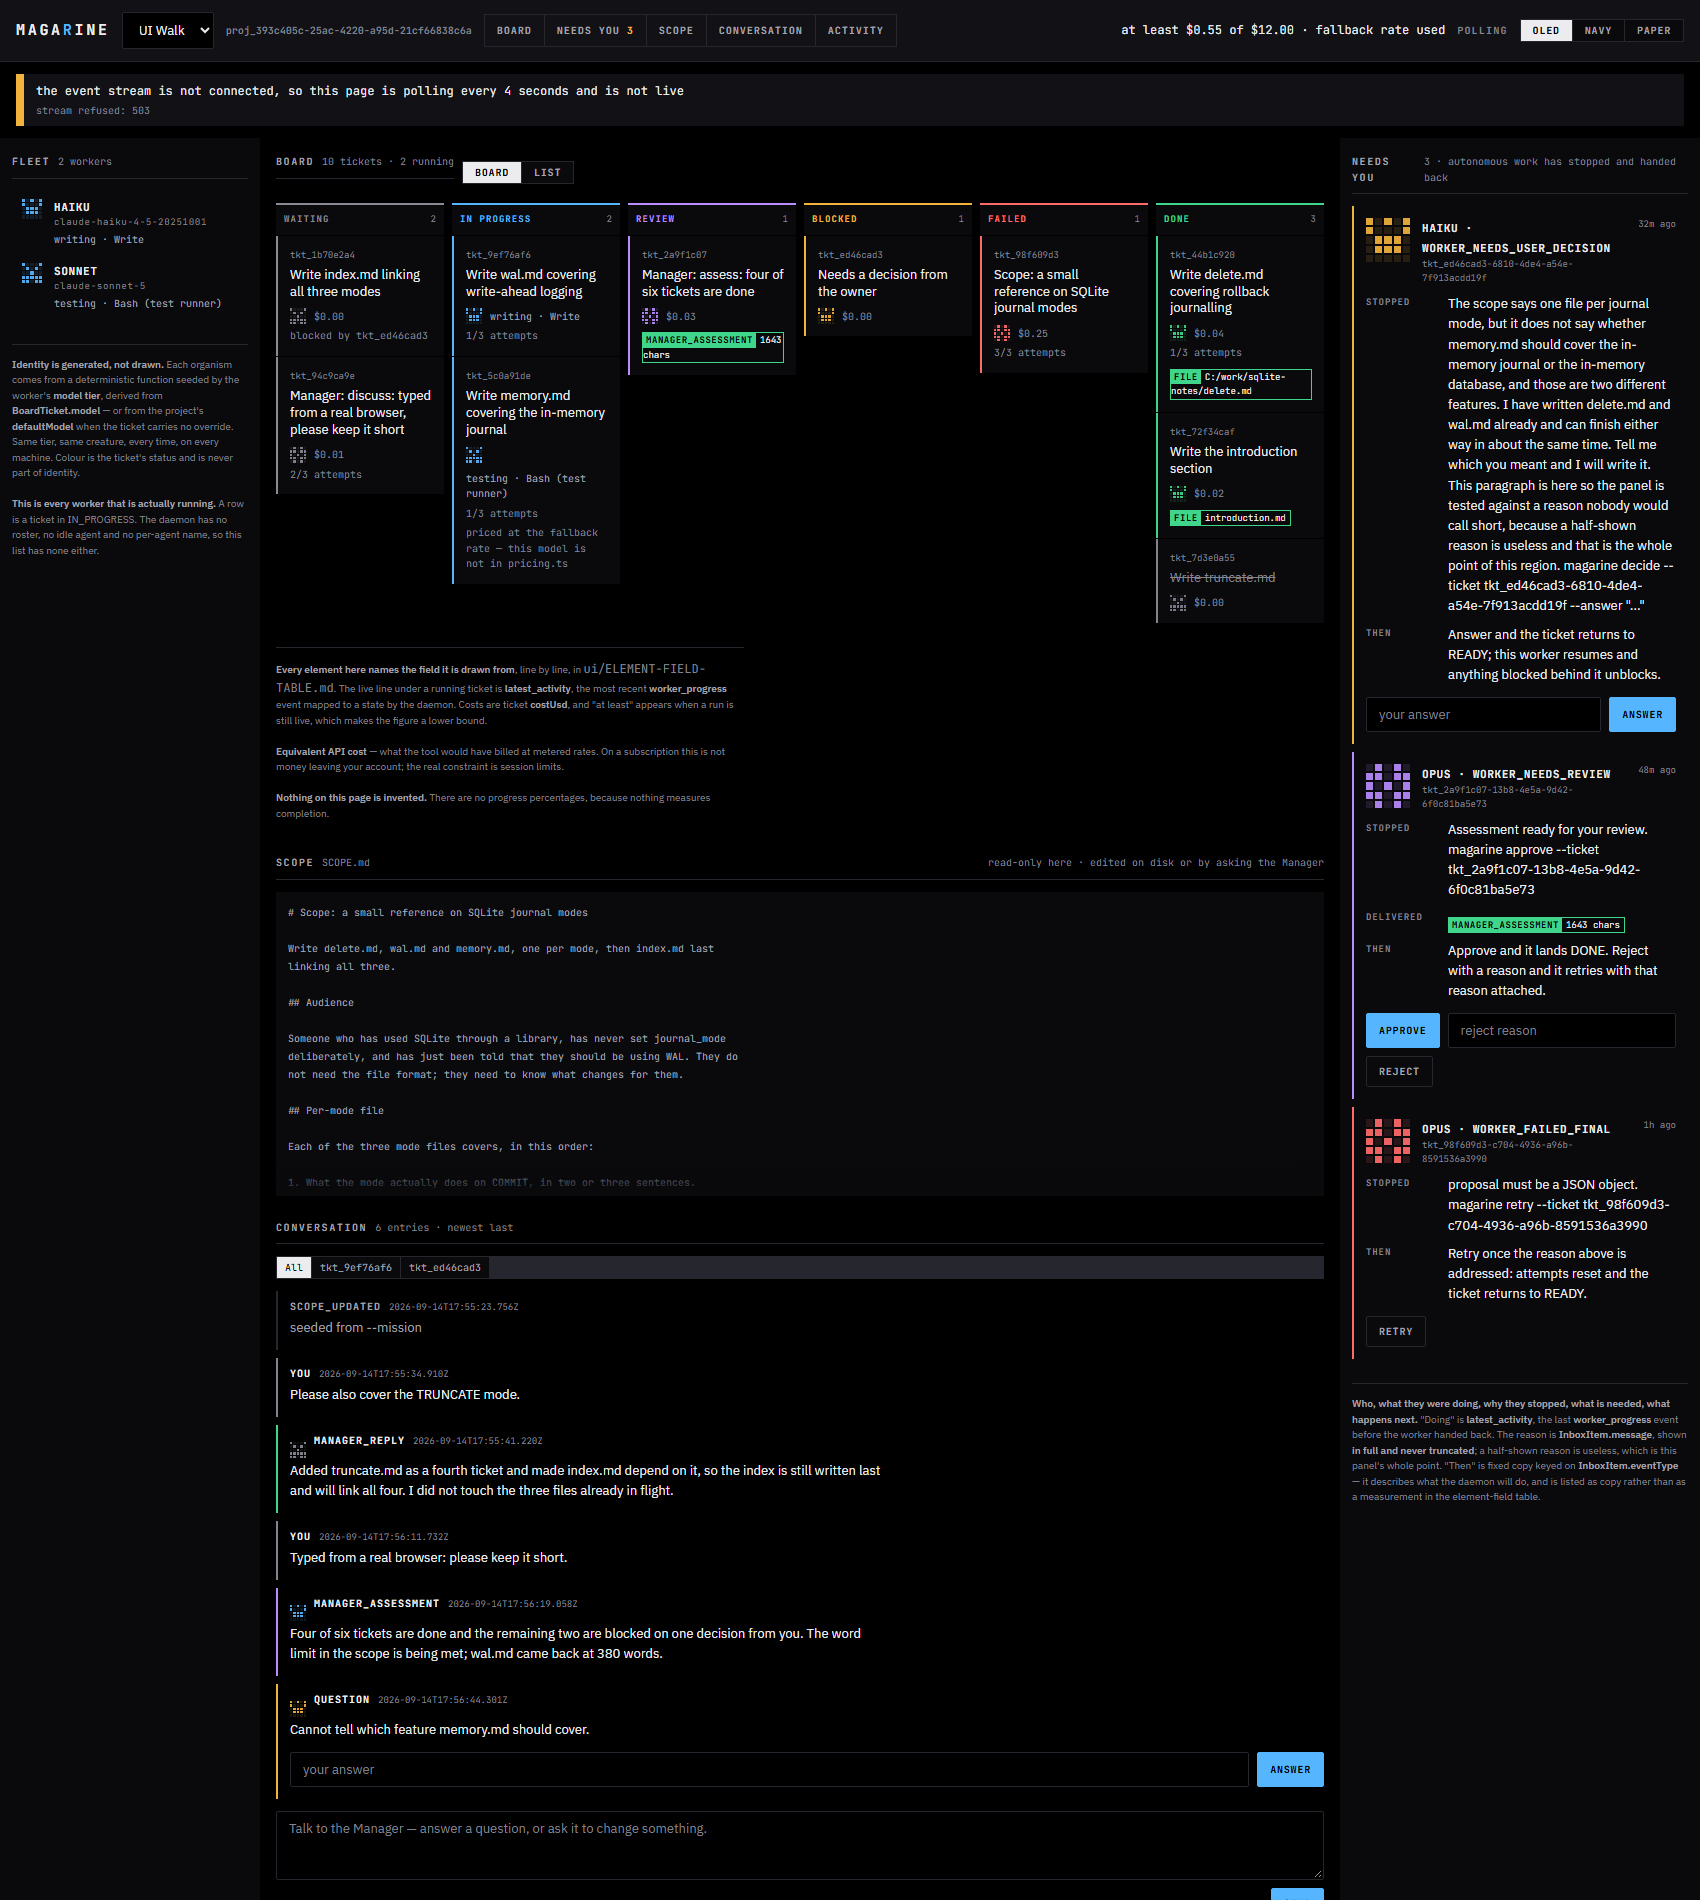
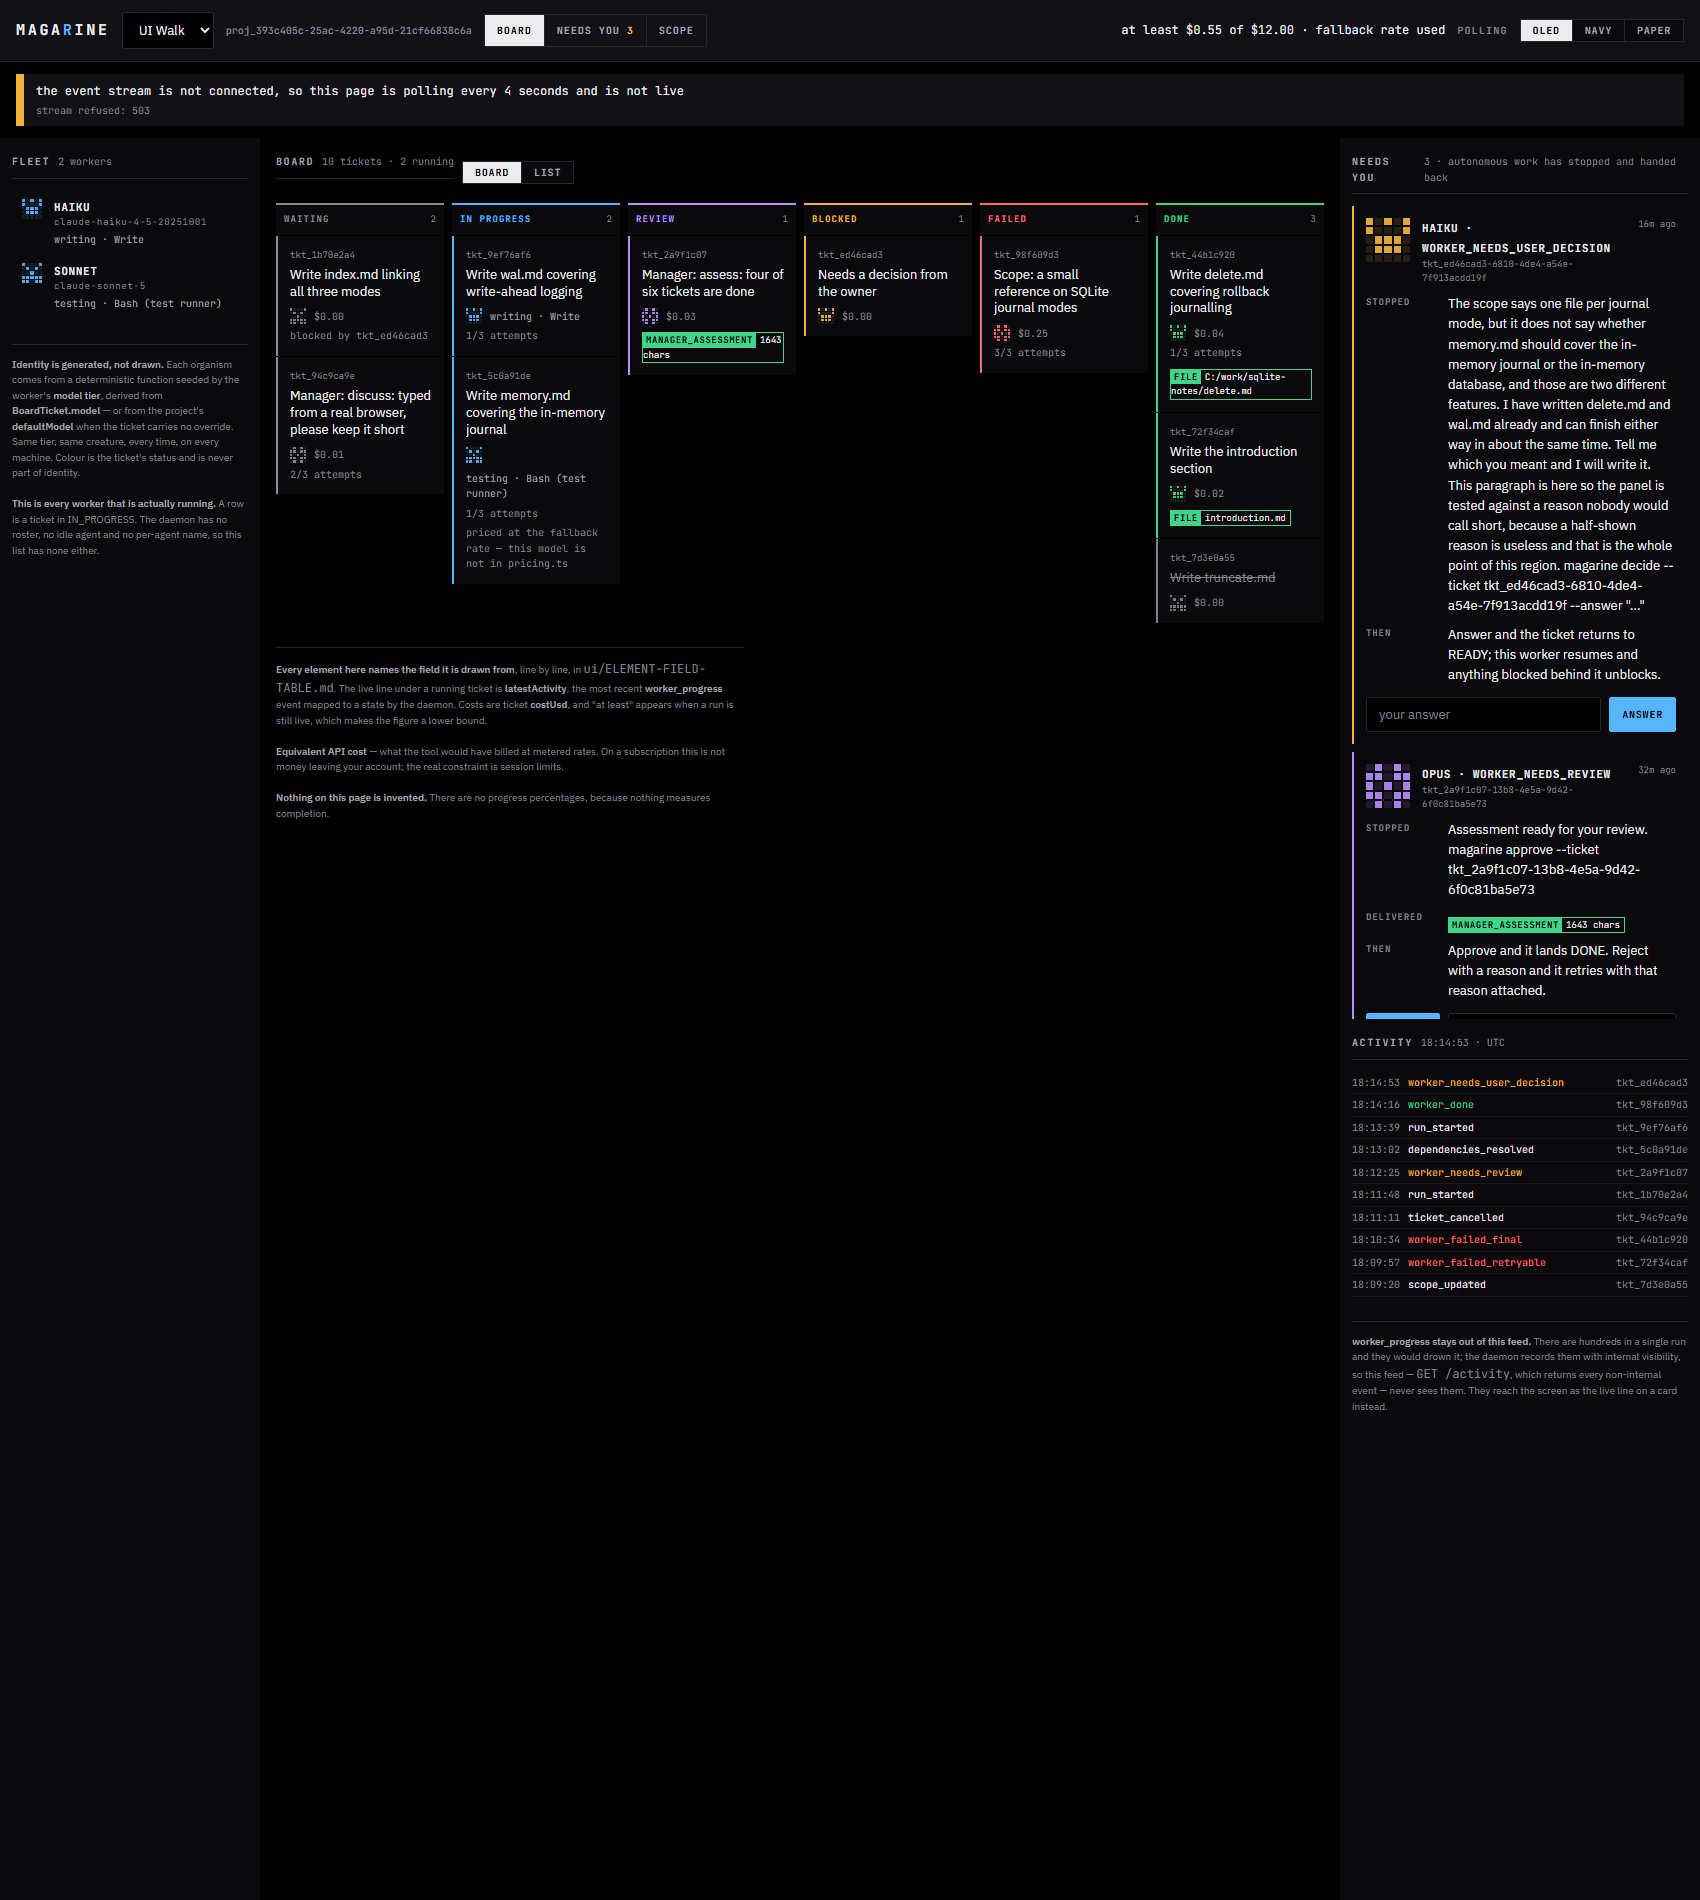
feat(ui): the current view is drawn, and every page capture is re-taken from an honest stub
Item 4, the screenshots, and the regression they found.

THE CURRENT VIEW WAS INVISIBLE. app.js sets aria-current on the nav entry
and no rule in the shipped skin drew it, so all three entries looked
identical in every view -- lost when the nav was restored under ruling 15.
The approved pass 3 design has the rule (docs/design/pass3/tokens.css
284); it is restored verbatim beside .nav a:hover, which already uses the
same colour pair, so contrast is unchanged. New test, written red first:
the current view is visible, not only announced. Verified by me: deleting
the rule fails exactly that test; file md5-identical after revert.

This is a defect only a picture could find. Every test passed while the
feature was invisible, because the tests check that the attribute is
written and that some rule consumes it -- not that a person can see which
view they are in.

EVIDENCE: 23 PNGs, all taken again. Twelve new view captures -- board,
needs-you and scope, dark and light, 100 and 125 percent -- and 01 to 07
re-shot under their original names, because every one showed a running
card and so carried the "doing" line no real daemon would render. The
README's caveat is now resolved rather than partly left standing, and it
says what screenshots are NOT evidence of: contrast, motion, keyboard.

Captured over DevTools, not `chrome --screenshot`. With every region now
focusable, loading /#board under --screenshot's virtual time matched
[…]

diff --git a/packages/core/src/ui/skin.test.ts b/packages/core/src/ui/skin.test.ts
@@ -447,3 +447,19 @@ test('every region the skin makes a scroll container can take keyboard focus', (
     'these regions scroll but cannot take focus, so a keyboard user cannot read past what fits: ' +
     unreachable.join(', '));
 });
+
+test('the current view is visible, not only announced: the skin styles aria-current on the nav', () => {
+  // RULING 15 requirement 1 has app.js set aria-current="page" on the matching
+  // nav entry. That serves a screen reader. A sighted user needs the same fact
+  // ON SCREEN, and the approved pass 3 design draws it
+  // (docs/design/pass3/tokens.css: `.nav a[aria-current="page"]`). The shipped
+  // skin lost that rule when the nav was removed and item 1 did not bring it
+  // back -- found in the item 4 screenshots, where all three entries looked the
+  // same in every view. Nothing else in this file could see it: the attribute
+  // was written, and consumed by nobody.
+  const styled = cssRules(SKIN).filter((r) =>
+    r.selector.split(',').some((s) => /\[aria-current="page"\]/.test(s) && /\ba\b/.test(s)));
+  assert.ok(styled.length > 0, 'no skin rule resolves the nav\'s aria-current="page", so the current view is invisible');
+  assert.ok(styled.some((r) => /background|color|border|outline|text-decoration/.test(r.body)),
+    'a rule selects aria-current="page" but changes nothing a sighted user can see');
+});

diff --git a/packages/core/ui/skin-brutalist.css b/packages/core/ui/skin-brutalist.css
@@ -366,6 +366,10 @@
     padding: var(--s2) var(--s3); background: var(--surface-2); color: var(--fg-2); text-decoration: none;
   }
   .nav a:hover { background: var(--fg); color: var(--bg); }
+  /* The view you are in, drawn — from the approved pass 3 design, verbatim.
+     app.js sets aria-current and nothing else; this is what makes it visible.
+     Restored after the item 4 screenshots showed all three entries identical. */
+  .nav a[aria-current="page"] { background: var(--fg); color: var(--bg); }
   .nav a .n { color: var(--st-blocked); }
 
   .btn {

diff --git a/docs/evidence/batch-15-page/README.md b/docs/evidence/batch-15-page/README.md
@@ -1,83 +1,110 @@
 # Batch 15: the page the daemon serves — screenshot evidence
 
-Interface Designer, Role B. Captured 2026-09-16 from `packages/core/ui/` as
-committed, rendered in headless Chrome 141.
+Interface Designer, Role B. **All 23 captures re-taken 2026-09-16 after ruling
+18**, from `packages/core/ui/` as it stands after rulings 15 and 18 and fixes
+3A and 3B, in Chrome 153.0.8010.48.
 
 **How to reproduce.** These are NOT hand-composed mockups. Each is the real
 `ui/index.html`, loading the real `ui/tokens.css`, `ui/skin-brutalist.css`,
 `ui/organism.js`, `ui/fontCoverage.js` and `ui/app.js` over HTTP, with the two
 shipped `.woff2` files. A throwaway stub in `.shots/` (gitignored) answers the
-daemon routes with responses shaped exactly like the real ones — `BoardResult`,
-`InboxItem[]`, `EventRow[]`, `ConversationEntry[]`.
+daemon routes. Captures are taken by `.shots/shoot-cdp.cjs` over the DevTools
+protocol (`Page.captureScreenshot`, with device-metrics emulation for 125%).
 
-> **CORRECTION, 2026-09-16, added by the lead after these were captured.**
-> The claim below that the stub answers "shaped exactly like the real ones" is
-> **not true of one field, and it invalidates part of what these pictures show.**
-> The stub's board rows carried `latest_activity`; the daemon sends
-> `latestActivity` (`commands/board.ts` 98 and 231). The page read the stub's
-> spelling, so **the "doing" line visible under running tickets in these
-> captures is a line no real daemon would ever have rendered** — against a real
-> daemon `activityOf()` returned null for every ticket, always.
+> **RESOLVED — the "doing" line.** An earlier set of these captures showed a
+> live line under running tickets that no real daemon would have rendered. The
+> stub sent `latest_activity`, the daemon sends `latestActivity`
+> (`commands/board.ts` 98 and 231), and the page read the stub's spelling — a
+> fixture written to match the page, agreeing with the page's mistake. The lead
+> recorded that caveat here; it is now resolved, not merely noted:
 >
-> The stub was written to match the page, so it agreed with the page's mistake:
-> a fixture validating the page against itself, which is the same failure shape
-> as a checker that cannot fail. Found by the Interface Designer against a real
-> spawned daemon, not by this suite and not by these screenshots.
->
-> Everything else here — layout, palette, contrast, organisms, the polling
-> notice, the responsive states — is unaffected and stands. These captures are
-> being re-shot against a corrected stub; until they are, read the activity
-> line and nothing else as unreliable.
+> - the page reads `latestActivity` (`ui/app.js`), and the stub sends it;
+> - **every capture in this directory was re-taken after the fix**, so no file
+>   here still carries the old line; `writing · Write` and
+>   `testing · Bash (test runner)` are now what a real daemon's field produces;
+> - the stub can no longer drift from the daemon unnoticed: the wire shapes the
+>   page depends on are asserted against a **real spawned daemon** in
+>   `src/ui/stream.test.ts` — the board field's name, the stream framing, and
+>   that `latestActivity.sequence` is the stream frame's own `id`. The lead
+>   mutation-checked that last test against `board.ts`.
+
+**Why `--screenshot` was not used this time.** Fix 3A makes every region
+focusable, so landing on `/#board` moves focus into `#board`. Under
+`chrome --screenshot`'s virtual-time mode that focus matched `:focus-visible` and
+drew a 2px ring round the whole centre column. In a real interactive session
+(`.shots/ringprobe.cjs`) the same load focuses `#board` with `:focus-visible`
+false and no outline, and so does a real mouse click on the nav. A picture of a
+ring nobody sees on arrival would have been honest-looking and wrong, so these
+are taken the way the page is actually used. `shoot-cdp.cjs` reports any
+element that *does* have a visible focus ring at capture time; none did.
 
 **The fixture is in the harness, never in the product.** `src/ui/page.test.ts`
 asserts that no ticket id, project id or money figure appears anywhere under
-`packages/core/ui/`. Every organism, colour and layout below is what the real
-code produced from daemon-shaped input.
+`packages/core/ui/`.
 
-**What the stub deliberately refuses:** `GET /events` answers 503. That is why
-every capture shows the page saying it is *polling* and not live — which is the
-behaviour rule 9 requires, photographed rather than asserted. The live path is
-verified separately against Role A's real route.
+**What the stub deliberately refuses:** `GET /events` answers 503, so every
+capture shows the page saying it is *polling* and not live — rule 9,
+photographed rather than asserted. The live path is not evidenced by a picture
+at all, because a picture cannot show motion: see "The live path" below.
 
 | file | what it shows |
 |---|---|
-| `01-board-oled-100.png` | the default environment, 1700px, 100% |
-| `01-board-dark-100.png` | navy, 100% |
-| `01-board-light-100.png` | warm paper, 100% |
-| `02-board-oled-125.png` | the same, at 125% device scale |
-| `02-board-dark-125.png` | " |
-| `02-board-light-125.png` | " |
-| `03-lanes-wrap-1500-oled.png` | at 1500px the six lanes wrap to two rows of three. **All six are still visible** — no status is ever hidden. |
-| `04-rail-below-1100-light.png` | at 1100px the rail drops below the centre |
+| `08-view-board-{dark,light}-{100,125}.png` | **Board view** (ruling 15): the six lanes in the centre; Needs you above Activity in the rail |
+| `09-view-needs-you-{dark,light}-{100,125}.png` | **Needs you view**: the panel promoted to the centre, where a reason shown in full has the width it needs; the rail is Activity alone |
+| `10-view-scope-{dark,light}-{100,125}.png` | **Scope view**: Scope and Conversation share the centre; the rail is the board view's, because Needs you is never hidden |
+| `01-board-{oled,dark,light}-100.png` | the default page (no hash, so the board view), 1700×1900 |
+| `02-board-{oled,dark,light}-125.png` | the same at 125% device scale |
+| `03-lanes-wrap-1500-oled.png` | at 1500px the six lanes wrap to two rows of three. **All six are still visible** — no status is ever hidden |
+| `04-rail-below-1100-light.png` | at 1100px the rail drops below the centre and the page scrolls as a page again |
 | `05-stacked-800-oled.png` | at 800px everything stacks in one column |
-| `06-gate-oled.png` | what the page shows before a token is accepted: the two notices and the gate, and **no invented data** |
-| `07-notices-coverage-and-pause-oled.png` | the font-coverage notice firing on non-Latin text from the daemon, and the spend-cap pause banner with the fix that matches its `pauseReason` |
+| `06-gate-oled.png` | before a token is accepted: the two notices and the gate, and **no invented data** |
+| `07-notices-coverage-and-pause-oled.png` | the font-coverage notice firing on non-Latin text, and the spend-cap pause banner with the fix that matches its `pauseReason` |
 
-## What each capture is evidence of
+The view captures are the window, 1700×1000 (2125×1250 at 125%). Under a view the
+page does not scroll — each column does — so the viewport *is* the screen.
 
-**Contrast is not evidenced here, deliberately.** A screenshot cannot
-discriminate 4.23:1 from 4.51:1 — which is exactly how a 10px element shipped
-at 4.23:1 in batch 14. Contrast is *computed* in `src/ui/contrast.test.ts` over
-every foreground token against every surface token in all three themes, plus
-every fill-on-text pair. No reachability judgement, no exemptions.
+## Found by taking these
 
-What the screenshots are good for is the class of defect no test I had planned
-would have caught, and two real ones were found this way:
+- **The current view was invisible.** In the first view captures all three nav
+  entries looked identical in every view: `app.js` set `aria-current="page"`, and
+  no rule in the shipped skin drew it. The approved pass 3 design does
+  (`.nav a[aria-current="page"]`); the rule was lost when the nav was removed and
+  not restored with it. Restored verbatim, with a test in `src/ui/skin.test.ts`
+  that fails if the attribute is styled by nothing — or styled invisibly.
+- **Carried from the first set:** an artefact's path written into the `class`
+  attribute and vanishing from the card, and a selector collision stacking
+  "manager_assessment" on its byte count. Both fixed; `el()` now throws on a
+  class name that is not lowercase-kebab.
 
-- an artefact's path was being written into the `class` attribute and silently
-  vanishing from the card (`el(tag, text)` missing its middle argument);
-- a pass-3 selector collision gave the artefact chip's kind label the step
-  label's fixed 74px box, so "manager_assessment" rendered with its byte count
-  on top of it.
+**Observation, not a defect:** in the scope view the SCOPE document is capped at
+19rem with a fade, leaving room above Conversation. That cap is in the approved
+pass 3 design exactly as drawn, so it is left as designed; it is recorded here
+because the scope view is the one place the room exists to use it.
 
-Both are fixed, and `el()` now throws rather than accepting a class name that
-is not lowercase-kebab, so a daemon value cannot become one again.
+## What screenshots are not evidence of
 
-## Visible in `01`/`02`, against the acceptance list
+**Contrast.** A screenshot cannot tell 4.23:1 from 4.51:1 — which is how a 10px
+element shipped at 4.23:1 in batch 14. Contrast is *computed* in
+`src/ui/contrast.test.ts` over every foreground token against every surface token
+in all three themes, plus every fill-on-text pair.
 
+**The live path.** A screenshot pair is not proof of motion. Ruling 18's
+animation was proven by a run: `.shots/motionproof.cjs` samples an organism on
+every animation frame over DevTools while the stub streams a burst — the node
+was replaced twice mid-pass and the pass still completed (1050ms against a
+computed 1044ms) — and a control run with the fast-forward disabled showed the
+pass destroyed at 400ms. The polling fallback was proven the same way with the
+stream refused.
+
+**Keyboard reach.** Fix 3A was verified with real Tab, ArrowDown and PageDown
+keypresses (`.shots/keyscroll.cjs`), not from these pictures.
+
+## Visible in `08`–`10` and `01`/`02`, against the acceptance list
+
+- three views as hash links, the current one marked
 - six lanes over eight statuses, `CANCELLED` struck through in the terminal lane
 - organisms from `ui/organism.js`, coloured by ticket status, keyed by tier
-- `latest_activity` as the live line: `writing · Write`, `testing · Bash (test runner)`
+- `latestActivity` as the live line: `writing · Write`, `testing · Bash (test runner)`
 - artefact by kind — a path for `file`, a length for a text-bearing kind
 - "at least $0.55 of $12.00 · fallback rate used" with the estimate caveat
 - an inbox reason shown **in full**, wrapping, never truncated
